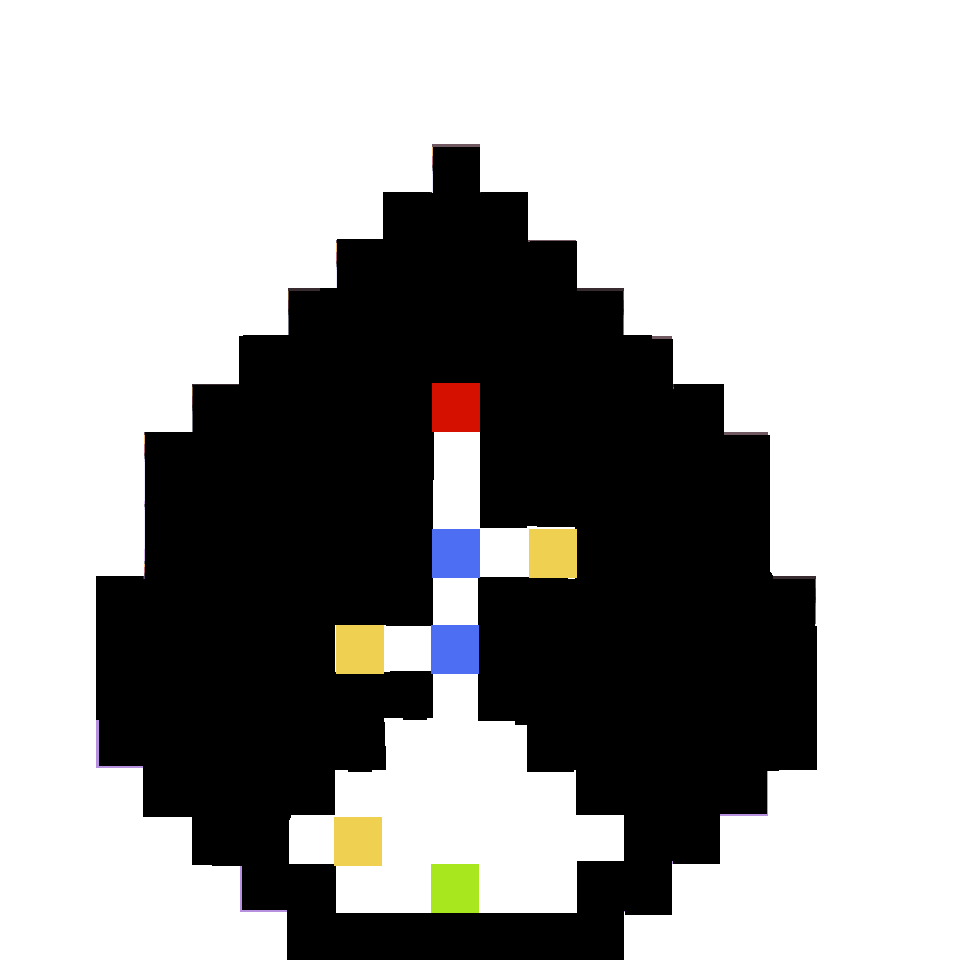
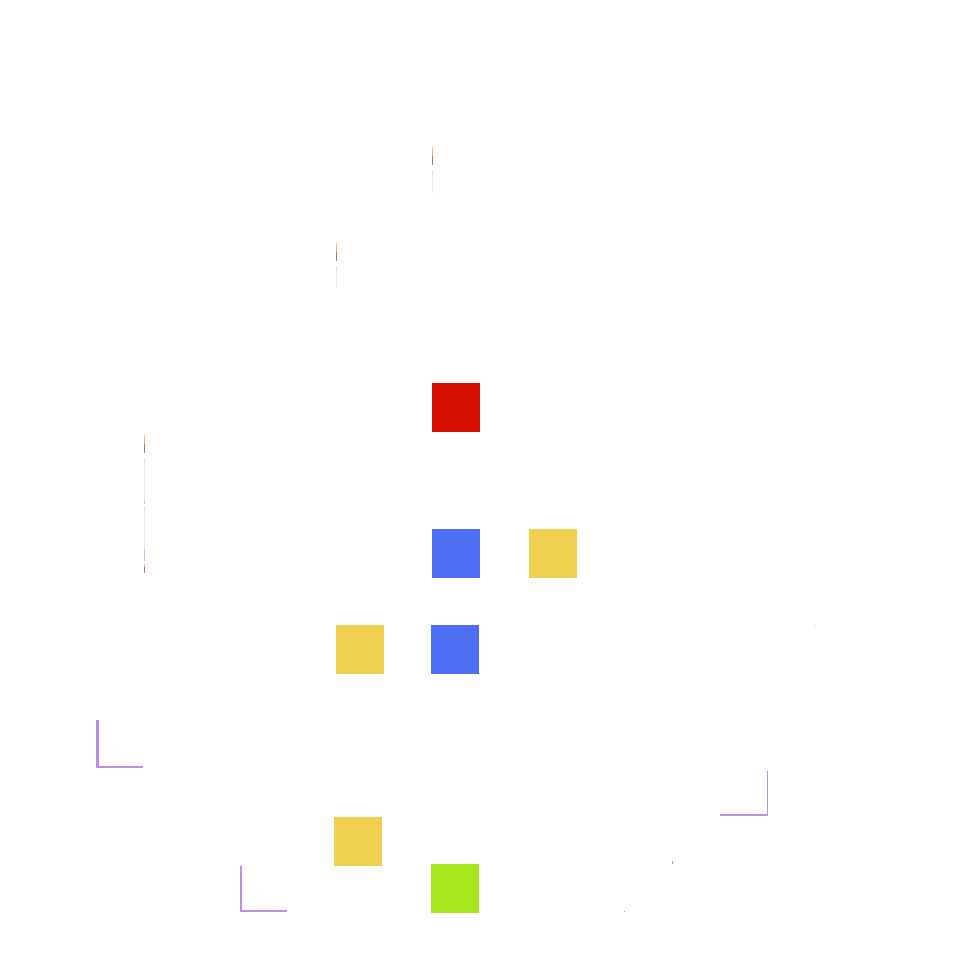
debug collision map switching

diff --git a/logic/cameraGroup.py b/logic/cameraGroup.py
@@ -14,7 +14,7 @@ class CameraGroup(pygame.sprite.Group):
         #Game variables
         self.level_num = 0
         self.zone_num = 0
-        self.zone_num_modified = False
+        #self.zone_num_modified = False
 
         #Camera offset
         self.offset = pygame.math.Vector2()
@@ -48,13 +48,13 @@ class CameraGroup(pygame.sprite.Group):
 
         #Collision maps
         self.first_level_first_zone = pygame.image.load("graphics/collision_maps/1_1.png").convert_alpha()
-        self.first_level_first_zone.set_alpha(128)
+        self.first_level_first_zone.set_alpha(192)
         self.first_level_second_zone = pygame.image.load("graphics/collision_maps/1_2.png").convert_alpha()
-        self.first_level_second_zone.set_alpha(128)
+        self.first_level_second_zone.set_alpha(192)
         self.first_level_third_zone = pygame.image.load("graphics/collision_maps/1_3.png").convert_alpha()
-        self.first_level_third_zone.set_alpha(128)
+        self.first_level_third_zone.set_alpha(192)
         self.first_level_fourth_zone = pygame.image.load("graphics/collision_maps/1_4.png").convert_alpha()
-        self.first_level_fourth_zone.set_alpha(128)
+        self.first_level_fourth_zone.set_alpha(192)
         self.first_level_maps = [self.first_level_first_zone, self.first_level_second_zone, self.first_level_third_zone, self.first_level_fourth_zone]
 
         self.first_level_first_zone_rect = self.first_level_first_zone.get_rect(topleft = (0,0))
@@ -111,7 +111,7 @@ class CameraGroup(pygame.sprite.Group):
             if sprite == player: self.last_player_pos_offsetted = sprite.rect.midbottom - self.offset + self.internal_offset #Distinguo il player per poterne calcolare le coordinate relative
             self.internal_surface.blit(sprite.image, self.offset_pos_sprites) #Calcolo con il punto midbottom per non prendere in considerazione i circa 30 pixel di altezza del player
 
-        print("Zona num", self.zone_num, "has been modified", self.zone_num_modified, "at", datetime.datetime.now())
+        #print("Zona num", self.zone_num, "has been modified", self.zone_num_modified, "at", datetime.datetime.now())
 
         scaled_surface = pygame.transform.scale(self.internal_surface, self.internal_surface_size_vector * self.zoom_scale)
         scaled_rect = scaled_surface.get_rect(center = (self.half_w, self.half_h))

diff --git a/logic/collisionController.py b/logic/collisionController.py
@@ -34,19 +34,23 @@ class CollisionController:
 
         pixel_color = zone.getpixel((desired_coords[0], desired_coords[1]))
 
-        #print("Desired coords:", desired_coords[0], desired_coords[1], "Pixel color:", pixel_color)
+        print("Desired coords:", desired_coords[0], desired_coords[1], "Pixel color:", pixel_color)
         #Colore che segna il cambio di zona
-        if pixel_color == (0, 183, 239, 255) and self.camera_group.zone_num_modified == False: #Cambio di zona
+        if pixel_color == (0, 183, 239, 255):# and self.camera_group.zone_num_modified == False: #Cambio di zona
             if self.player.verse == "right" or self.player.verse == "down":
+                print("cambio zona")
                 self.camera_group.zone_num += 1
-            else: self.camera_group.zone_num -= 1 
-            self.camera_group.zone_num_modified = True
+                self.camera_group.calculate_new_player_relative_coords()
+            else: 
+                self.camera_group.zone_num -= 1 
+                self.camera_group.calculate_new_player_relative_coords()
+            #self.camera_group.zone_num_modified = True
             
         elif pixel_color == (34, 177, 76, 255): #Colore che segna la presenza di un cespuglio
-            print("Cespuglio")
+            #print("Cespuglio")
             pass
         
-        elif pixel_color == (0,0,0,0) or pixel_color == (0,0,0,255): #Se il pixel è trasparente o nero
+        elif pixel_color == (0,0,0,0): #Se il pixel è trasparente rifiuta il movimento
             return False
-    
+       
         return True

diff --git a/logic/player.py b/logic/player.py
@@ -148,6 +148,6 @@ class Player(pygame.sprite.Sprite):
             self.image = self.current_animation[0]
             
     def move(self):
+        #self.zone_num_modified = False
         self.input() #Gestisce l'input del giocatore
-        self.rect.center += self.direction * self.actual_speed
-        self.zone_num_modified = False
+        self.rect.center += self.direction * self.actual_speed        

diff --git a/settings.py b/settings.py
@@ -20,7 +20,7 @@ INITIAL_ZOOM = 1.0
 INTERNAL_SURFACE_SIZE = (1920,1080) #2500, 2500
 
 #Player settings
-PLAYER_SPEED = 10
+PLAYER_SPEED = 3
 PLAYER_ANIMATION_DELAY = 0.3 #Secondi tra i frame delle animazioni
 
 #Keybinds
